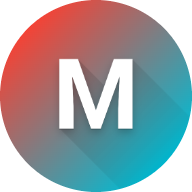
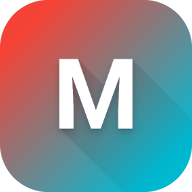
更新应用图标和服务工作者版本

diff --git a/public/flutter_service_worker.js b/public/flutter_service_worker.js
@@ -23,13 +23,13 @@ const RESOURCES = {"assets/AssetManifest.bin": "693635b5258fe5f1cda720cf224f158c
 "canvaskit/skwasm_heavy.js": "413f5b2b2d9345f37de148e2544f584f",
 "canvaskit/skwasm_heavy.js.symbols": "3c01ec03b5de6d62c34e17014d1decd3",
 "canvaskit/skwasm_heavy.wasm": "8034ad26ba2485dab2fd49bdd786837b",
-"favicon.png": "3b7c483ffa70fbce365b6e07dd6a5275",
+"favicon.png": "eb36b707ea2f4e0c5ceea2128df124f8",
 "flutter.js": "888483df48293866f9f41d3d9274a779",
-"flutter_bootstrap.js": "a97de9c838ead403b82bb4aec003d65f",
-"icons/Icon-192.png": "d4c58b186a283398d862e4b0559c9851",
-"icons/Icon-512.png": "0608c0a4e6a04951cd949003a3713017",
-"icons/Icon-maskable-192.png": "d4c58b186a283398d862e4b0559c9851",
-"icons/Icon-maskable-512.png": "0608c0a4e6a04951cd949003a3713017",
+"flutter_bootstrap.js": "44fe47a2369658ccfc52ac7afc0999ec",
+"icons/Icon-192.png": "0373b7ae41b7e6d1339860ed82ded594",
+"icons/Icon-512.png": "701bffb3f0a1cc33a219a17b2260946a",
+"icons/Icon-maskable-192.png": "0373b7ae41b7e6d1339860ed82ded594",
+"icons/Icon-maskable-512.png": "701bffb3f0a1cc33a219a17b2260946a",
 "index.html": "d97c81dc9f4ef8d4586eb1d04c48e3c2",
 "/": "d97c81dc9f4ef8d4586eb1d04c48e3c2",
 "main.dart.js": "0643047e1dbd28d91332451ef8105720",

diff --git a/public/flutter_bootstrap.js b/public/flutter_bootstrap.js
@@ -38,6 +38,6 @@ _flutter.buildConfig = {"engineRevision":"1e9a811bf8e70466596bcf0ea3a8b5adb5f17f
 
 _flutter.loader.load({
   serviceWorkerSettings: {
-    serviceWorkerVersion: "3272240116"
+    serviceWorkerVersion: "479091627"
   }
 });
